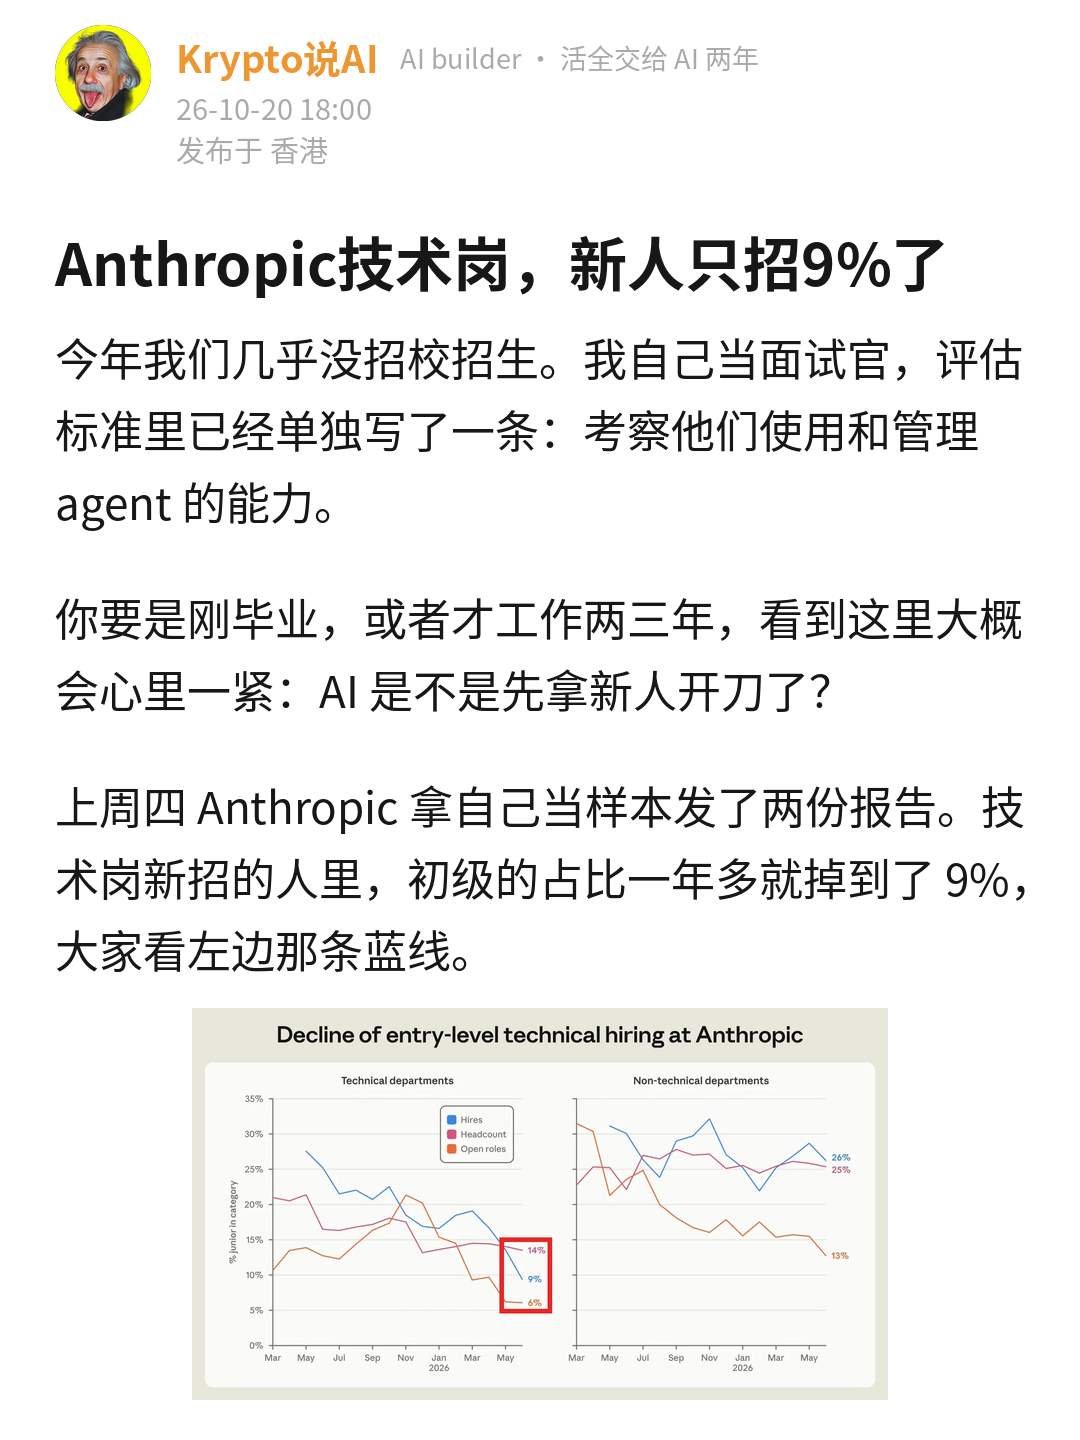
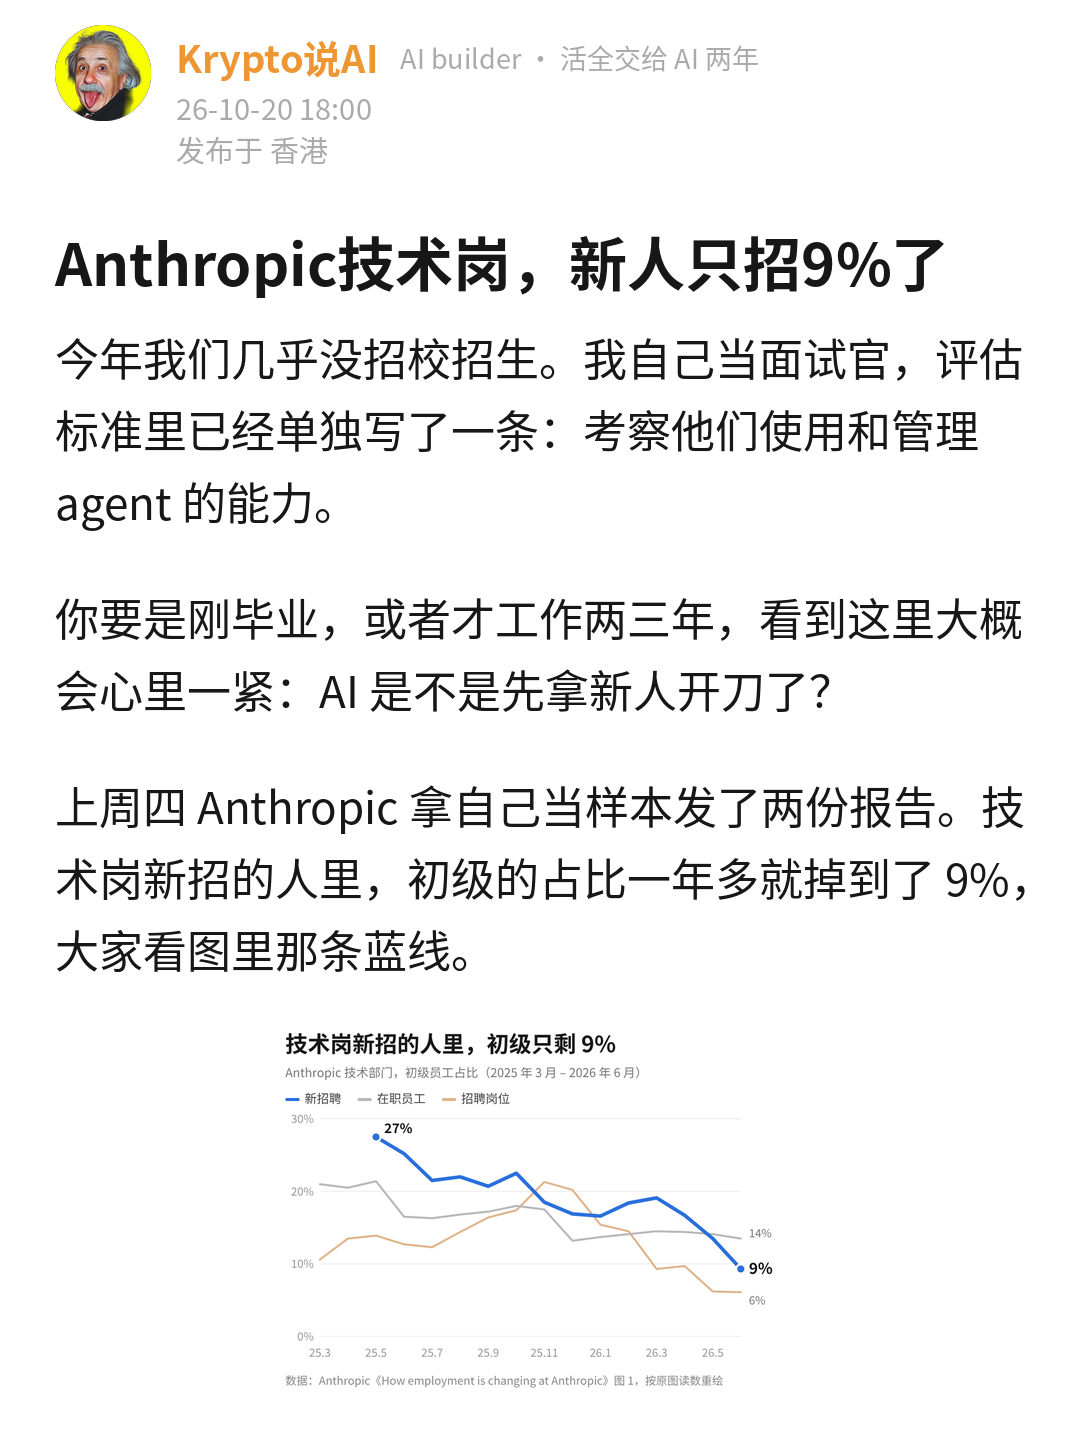
Anthropic 就业稿：首页图表换成中文重画版
Claude-Session: https://claude.ai/code/session_01F7f2EAghug6CLbDqppUVjD

Changed region(s): [[0.1528, 0.625, 0.825, 1.0]]

diff --git a/发布/2026-10-20_anthropic-employment/meme版/编辑用/hiring_cn.html b/发布/2026-10-20_anthropic-employment/meme版/编辑用/hiring_cn.html
@@ -1,0 +1,31 @@
+<!doctype html><html><head><meta charset="utf-8"><style>
+body{margin:0;width:540px;background:#fff;font-family:"Noto Sans CJK SC",sans-serif;color:#171717}
+.wrap{padding:18px 20px 14px}
+h1{font-size:22px;margin:0 0 4px;font-weight:700}
+.sub{font-size:12px;color:#777;margin-bottom:8px}
+.lg{font-size:12px;color:#444;display:flex;gap:16px;margin:2px 0 4px}
+.lg i{display:inline-block;width:14px;height:3px;vertical-align:middle;margin-right:5px;border-radius:2px}
+.foot{font-size:11px;color:#888;margin-top:2px}
+</style></head><body><div class="wrap">
+<h1>技术岗新招的人里，初级只剩 9%</h1>
+<div class="sub">Anthropic 技术部门，初级员工占比（2025 年 3 月 – 2026 年 6 月）</div>
+<div class="lg"><span><i style="background:#2a6fdb"></i>新招聘</span><span><i style="background:#b8b8b8"></i>在职员工</span><span><i style="background:#e0b48a"></i>招聘岗位</span></div>
+<svg id="c" width="500" height="250"></svg>
+<div class="foot">数据：Anthropic《How employment is changing at Anthropic》图 1，按原图读数重绘</div>
+</div><script>
+const hires=[null,null,27.5,25.2,21.5,22,20.7,22.5,18.5,16.9,16.6,18.4,19.1,16.7,13.5,9.3];
+const head=[21,20.5,21.4,16.5,16.3,16.8,17.2,18,17.5,13.2,13.7,14.1,14.5,14.4,14.1,13.5];
+const open=[10.6,13.5,13.9,12.7,12.3,14.4,16.4,17.4,21.3,20.2,15.4,14.5,9.3,9.7,6.2,6.1];
+const W=500,H=250,L=34,R=52,T=8,B=28,ymax=30;
+const x=i=>L+i*(W-L-R)/15, y=v=>T+(1-v/ymax)*(H-T-B);
+const s=document.getElementById('c');let g='';
+for(const v of [0,10,20,30]){g+=`<line x1="${L}" x2="${W-R}" y1="${y(v)}" y2="${y(v)}" stroke="#eee"/><text x="${L-6}" y="${y(v)+4}" font-size="11" fill="#999" text-anchor="end">${v}%</text>`}
+const lab={0:'25.3',2:'25.5',4:'25.7',6:'25.9',8:'25.11',10:'26.1',12:'26.3',14:'26.5'};
+for(const i in lab){g+=`<text x="${x(+i)}" y="${H-8}" font-size="11" fill="#999" text-anchor="middle">${lab[i]}</text>`}
+function line(d,c,w){let p='';d.forEach((v,i)=>{if(v==null)return;p+=(p?'L':'M')+x(i)+','+y(v)});return `<path d="${p}" fill="none" stroke="${c}" stroke-width="${w}" stroke-linejoin="round" stroke-linecap="round"/>`}
+g+=line(open,'#e0b48a',2)+line(head,'#b8b8b8',2)+line(hires,'#2a6fdb',3.5);
+g+=`<circle cx="${x(2)}" cy="${y(27.5)}" r="4.5" fill="#2a6fdb" stroke="#fff" stroke-width="2"/><text x="${x(2)+8}" y="${y(27.5)-4}" font-size="13" font-weight="700" fill="#171717">27%</text>`;
+g+=`<circle cx="${x(15)}" cy="${y(9.3)}" r="4.5" fill="#2a6fdb" stroke="#fff" stroke-width="2"/><text x="${x(15)+8}" y="${y(9.3)+5}" font-size="15" font-weight="700" fill="#171717">9%</text>`;
+g+=`<text x="${x(15)+8}" y="${y(13.5)-1}" font-size="11" fill="#777">14%</text><text x="${x(15)+8}" y="${y(6.1)+12}" font-size="11" fill="#777">6%</text>`;
+s.innerHTML=g;
+</script></body></html>

diff --git a/发布/2026-10-20_anthropic-employment/meme版/编辑用/draft.md b/发布/2026-10-20_anthropic-employment/meme版/编辑用/draft.md
@@ -9,7 +9,7 @@ output: 把这周的活分成干活、看活、拍板三列的自查
 keyword: Anthropic
 keywords: AI取代工作, 校招, AI agent
 headline: Anthropic技术岗，新人只招9%了
-hero: hiring_box.png
+hero: hiring_cn.png
 time: 26-10-20 18:00
 location: 香港
 account: Krypto说AI
@@ -19,7 +19,7 @@ account: Krypto说AI
 
 你要是刚毕业，或者才工作两三年，看到这里大概会心里一紧：AI 是不是先拿新人开刀了？
 
-上周四 Anthropic 拿自己当样本发了两份报告。技术岗新招的人里，初级的占比一年多就掉到了 9%，大家看左边那条蓝线。
+上周四 Anthropic 拿自己当样本发了两份报告。技术岗新招的人里，初级的占比一年多就掉到了 9%，大家看图里那条蓝线。
 
 我看完以后觉得，这条线只是结果。报告真正讲清楚的，是新人原来的位置为什么没了。
 
